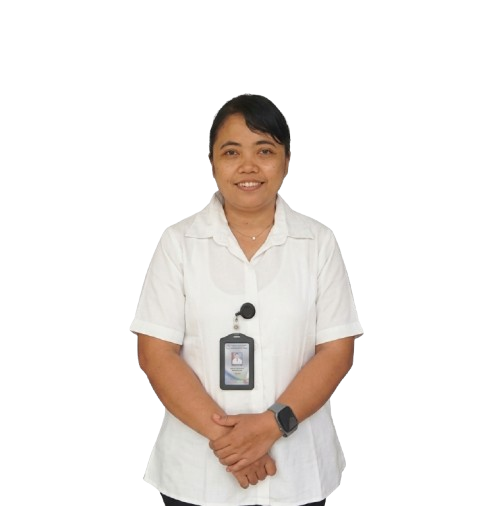
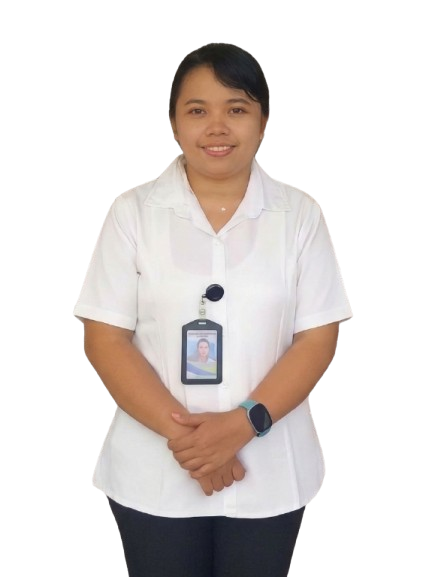
commit keduapuluhempat (perbaikan foto struktur dan pengurus)

Changed region(s): [[0.1505, 0.0593, 0.8125, 1.0]]

diff --git a/index.html b/index.html
@@ -111,43 +111,43 @@
                 <div class="hero-wrapper">
 
                     <!-- BAGIAN FOTO DENGAN 3 BORDER KARTU PENGURUS -->
-                <div class="hero-image">
-                    <!-- Pembungkus Foto dengan CSS Grid 3 Kolom -->
-                    <div class="hero-team-photo-wrap">
-                        <!-- Foto 1: Sekretaris (I Wayan Sumadi) -->
-                        <img src="Pak Sumadi.png" alt="Pengurus BUMDes Manggis: I Wayan Sumadi" class="hero-team-photo"
-                            fetchpriority="high">
+                    <div class="hero-image">
+                        <!-- Pembungkus Foto dengan CSS Grid 3 Kolom -->
+                        <div class="hero-team-photo-wrap">
+                            <!-- Foto 1: Sekretaris (I Wayan Sumadi) -->
+                            <img src="Pak Sumadi.png" alt="Pengurus BUMDes Manggis: I Wayan Sumadi"
+                                class="hero-team-photo" fetchpriority="high">
 
-                        <!-- Foto 2: Bendahara (Ni Komang Ayu Suari Dewi) -->
-                        <img src="Bu Dewi.png" alt="Pengurus BUMDes Manggis: Ni Komang Ayu Suari Dewi" class="hero-team-photo"
-                            fetchpriority="high">
+                            <!-- Foto 2: Bendahara (Ni Komang Ayu Suari Dewi) -->
+                            <img src="Bu Dewi.png" alt="Pengurus BUMDes Manggis: Ni Komang Ayu Suari Dewi"
+                                class="hero-team-photo photo-tengah" fetchpriority="high">
 
-                        <!-- Foto 3: Direktur (I Gede Saputra Wisnawa, SE) -->
-                        <img src="Pak Gede.png" alt="Pengurus BUMDes Manggis: I Gede Saputra Wisnawa, SE" class="hero-team-photo"
-                            fetchpriority="high">
+                            <!-- Foto 3: Direktur (I Gede Saputra Wisnawa, SE) -->
+                            <img src="Pak Gede.png" alt="Pengurus BUMDes Manggis: I Gede Saputra Wisnawa, SE"
+                                class="hero-team-photo" fetchpriority="high">
+                        </div>
+
+                        <!-- 3 Border Label untuk Masing-masing Orang -->
+                        <div class="hero-team-labels" aria-label="Susunan pengurus BUMDes Manggis">
+                            <!-- Border 1: Paling Kiri (Sekretaris) -->
+                            <div class="hero-person-card border-kiri">
+                                <span class="role">SEKRETARIS</span>
+                                <span class="name">I WAYAN SUMADI</span>
+                            </div>
+
+                            <!-- Border 2: Di Tengah (Bendahara) -->
+                            <div class="hero-person-card border-tengah">
+                                <span class="role">BENDAHARA</span>
+                                <span class="name">NI KOMANG AYU SUARI DEWI</span>
+                            </div>
+
+                            <!-- Border 3: Paling Kanan (Direktur) -->
+                            <div class="hero-person-card border-kanan">
+                                <span class="role">DIREKTUR</span>
+                                <span class="name" style="white-space: nowrap;">I GEDE SAPUTRA WISNAWA, SE</span>
+                            </div>
+                        </div>
                     </div>
-
-                    <!-- 3 Border Label untuk Masing-masing Orang -->
-                    <div class="hero-team-labels" aria-label="Susunan pengurus BUMDes Manggis">
-                        <!-- Border 1: Paling Kiri (Sekretaris) -->
-                        <div class="hero-person-card border-kiri">
-                            <span class="role">SEKRETARIS</span>
-                            <span class="name">I WAYAN SUMADI</span>
-                        </div>
-
-                        <!-- Border 2: Di Tengah (Bendahara) -->
-                        <div class="hero-person-card border-tengah">
-                            <span class="role">BENDAHARA</span>
-                            <span class="name">NI KOMANG AYU SUARI DEWI</span>
-                        </div>
-
-                        <!-- Border 3: Paling Kanan (Direktur) -->
-                        <div class="hero-person-card border-kanan">
-                            <span class="role">DIREKTUR</span>
-                            <span class="name">I GEDE SAPUTRA WISNAWA, SE</span>
-                        </div>
-                    </div>
-                </div>
 
                     <!-- TEKS / KONTEN HERO -->
                     <div class="hero-content">
@@ -206,8 +206,8 @@
 
                     <div class="about-left">
                         <div class="about-img-box hover-float">
-                            <img src="Struktur Organisasi.jpg" alt="Gedung BUMDes Manggis" width="600" height="400"
-                                loading="lazy" decoding="async">
+                            <img src="Struktur Organisasi.jpg" alt="Struktur BUMDes Manggis"
+                                width="600" height="400" loading="lazy" decoding="async">
                         </div>
 
                         <div class="vm-grid">
@@ -536,7 +536,7 @@
                                         </div>
                                     </div>
                                 </div>
-                                <div class="gallery-item">  
+                                <div class="gallery-item">
                                     <img src="dokum4.jpeg" alt="Dokumentasi Kerja BUMDes 4" width="400" height="300"
                                         loading="lazy" decoding="async">
                                     <div class="gallery-overlay">
@@ -737,7 +737,7 @@
         </div>
 
         <div class="copyright">
-            <p>&copy; 2026 BUMDes Manggis Karangasem. Semua Hak Dilindungi.</p>
+            <p>© 2026 BUMDes Manggis Karangasem. Semua Hak Dilindungi.</p>
         </div>
     </footer>
 
@@ -776,7 +776,7 @@
     </button>
 
     <div id="lightbox-modal" class="lightbox-modal">
-        <span class="lightbox-close">&times;</span>
+        <span class="lightbox-close">×</span>
         <img class="lightbox-content" id="lightbox-img" alt="Pratinjau" width="800" height="600">
         <div id="lightbox-caption" class="lightbox-caption-text"></div>
     </div>

diff --git a/style.css b/style.css
@@ -665,6 +665,15 @@ ul {
     transition: transform 0.3s ease;
 }
 
+/* Mengatur posisi foto di tengah agar bergeser ke bawah */
+.hero-team-photo.photo-tengah {
+    transform: scale(1) translateY(30px); 
+}
+
+.hero-team-photo-wrap:hover .hero-team-photo.photo-tengah {
+    transform: scale(1.03) translateY(30px);
+}
+
 .hero-team-photo-wrap:hover .hero-team-photo {
     transform: scale(1.03);
 }
@@ -868,6 +877,7 @@ ul {
 
 .about-img-box img { 
     width: 100%; 
+    height: 100%;
     border-radius: 30px; 
     box-shadow: 0 20px 40px rgba(0,0,0,0.08); 
     animation: float 6s ease-in-out infinite; 
